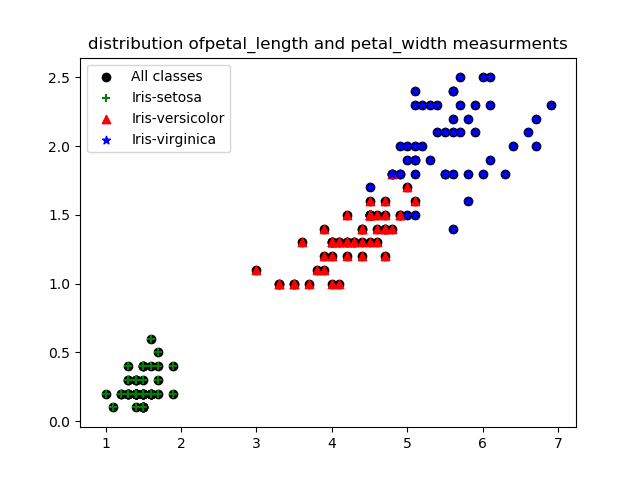
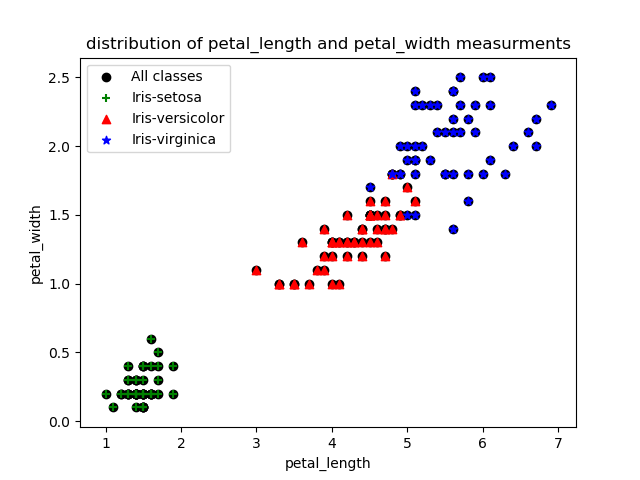
final update of everything

Changed region(s): [[0.125, 0.0625, 0.9062, 0.125], [0.4375, 0.9375, 0.5938, 1.0], [0.0312, 0.4375, 0.0625, 0.5938]]

diff --git a/analysis.py b/analysis.py
@@ -86,11 +86,13 @@ histpw = histograms(df,'petal_width')
 # For this part I have checked the site written by Adam Murphy to get inspired (https://blog.finxter.com/matplotlib-scatter-plot/)
 
 def scatter (dataframe,dataframe2,dataframe3, dataframe4,column1,column2,label1,label2,label3,label4):
-    plt.title("distribution of"+ column1 + " and " + column2 + " measurments")
+    plt.title("distribution of "+ column1 + " and " + column2 + " measurments")
     plt.scatter(dataframe[column1],dataframe[column2],c='black',edgecolors="black",label=label1)
     plt.scatter(dataframe2[column1], dataframe2[column2],c='g',marker='+',label=label2)
     plt.scatter(dataframe3[column1], dataframe3[column2],c='r',marker='^',label=label3)
     plt.scatter(dataframe4[column1], dataframe4[column2],c='b',marker='*',label=label4)
+    plt.xlabel(column1)
+    plt.ylabel(column2)
     plt.legend(loc='upper left')
     plt.savefig("distribution_"+column1+ "_"+column2+".png")
     return plt.clf()
